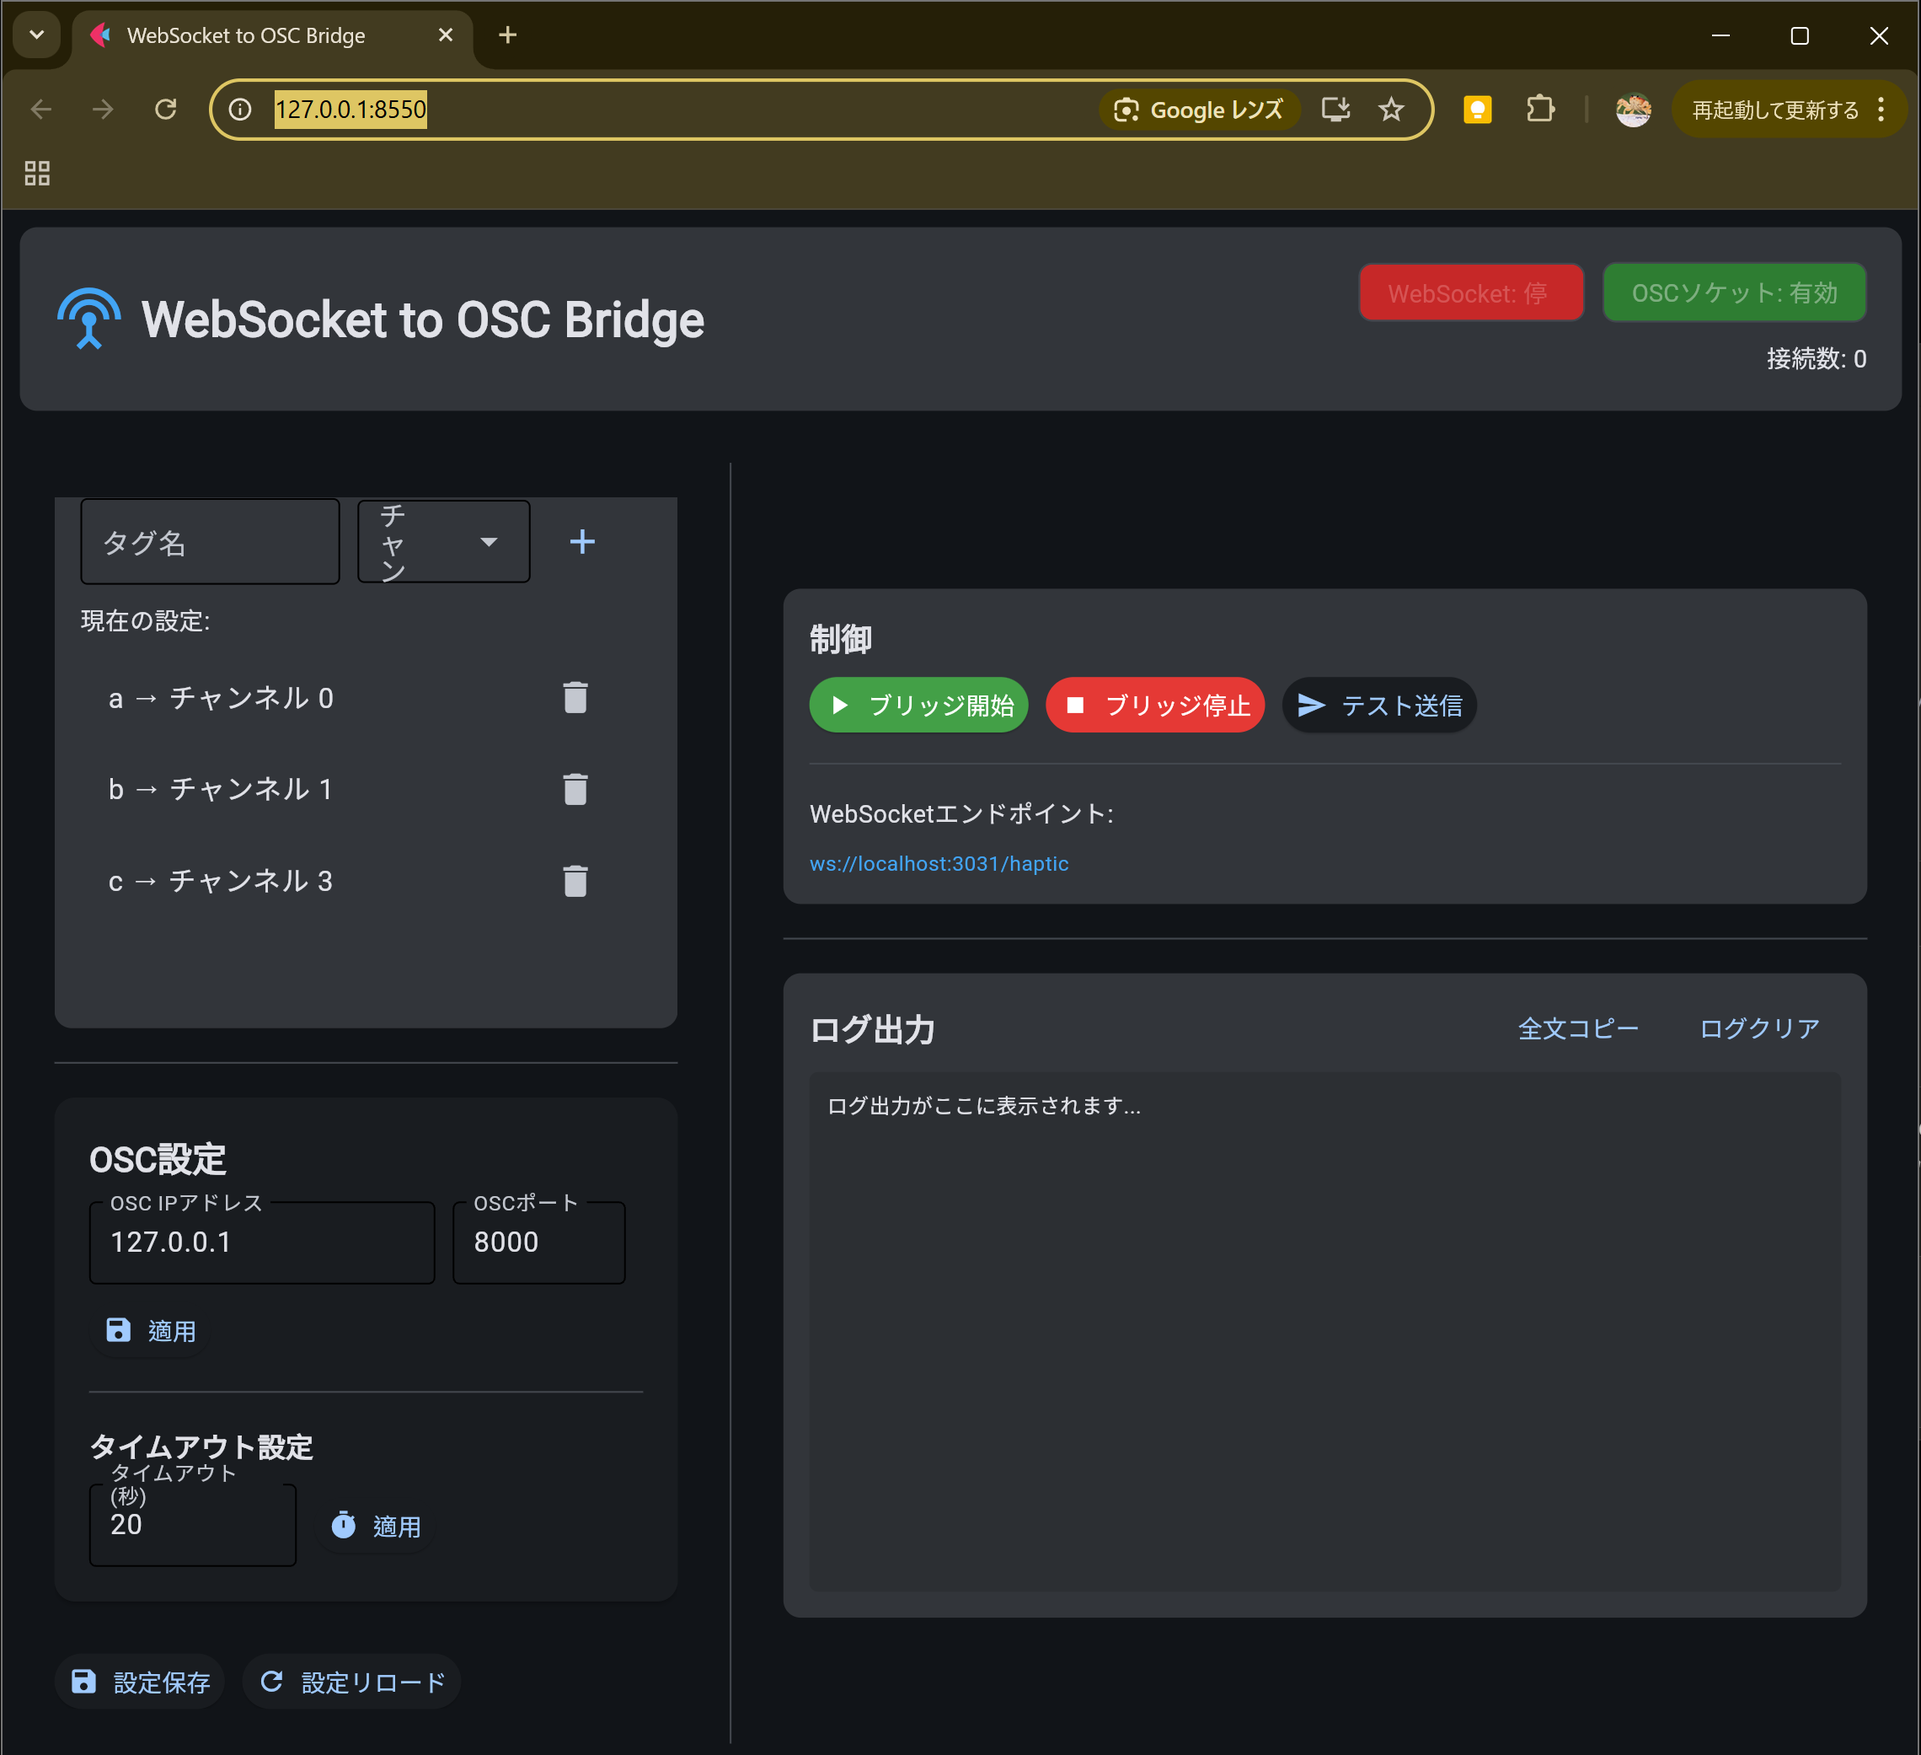
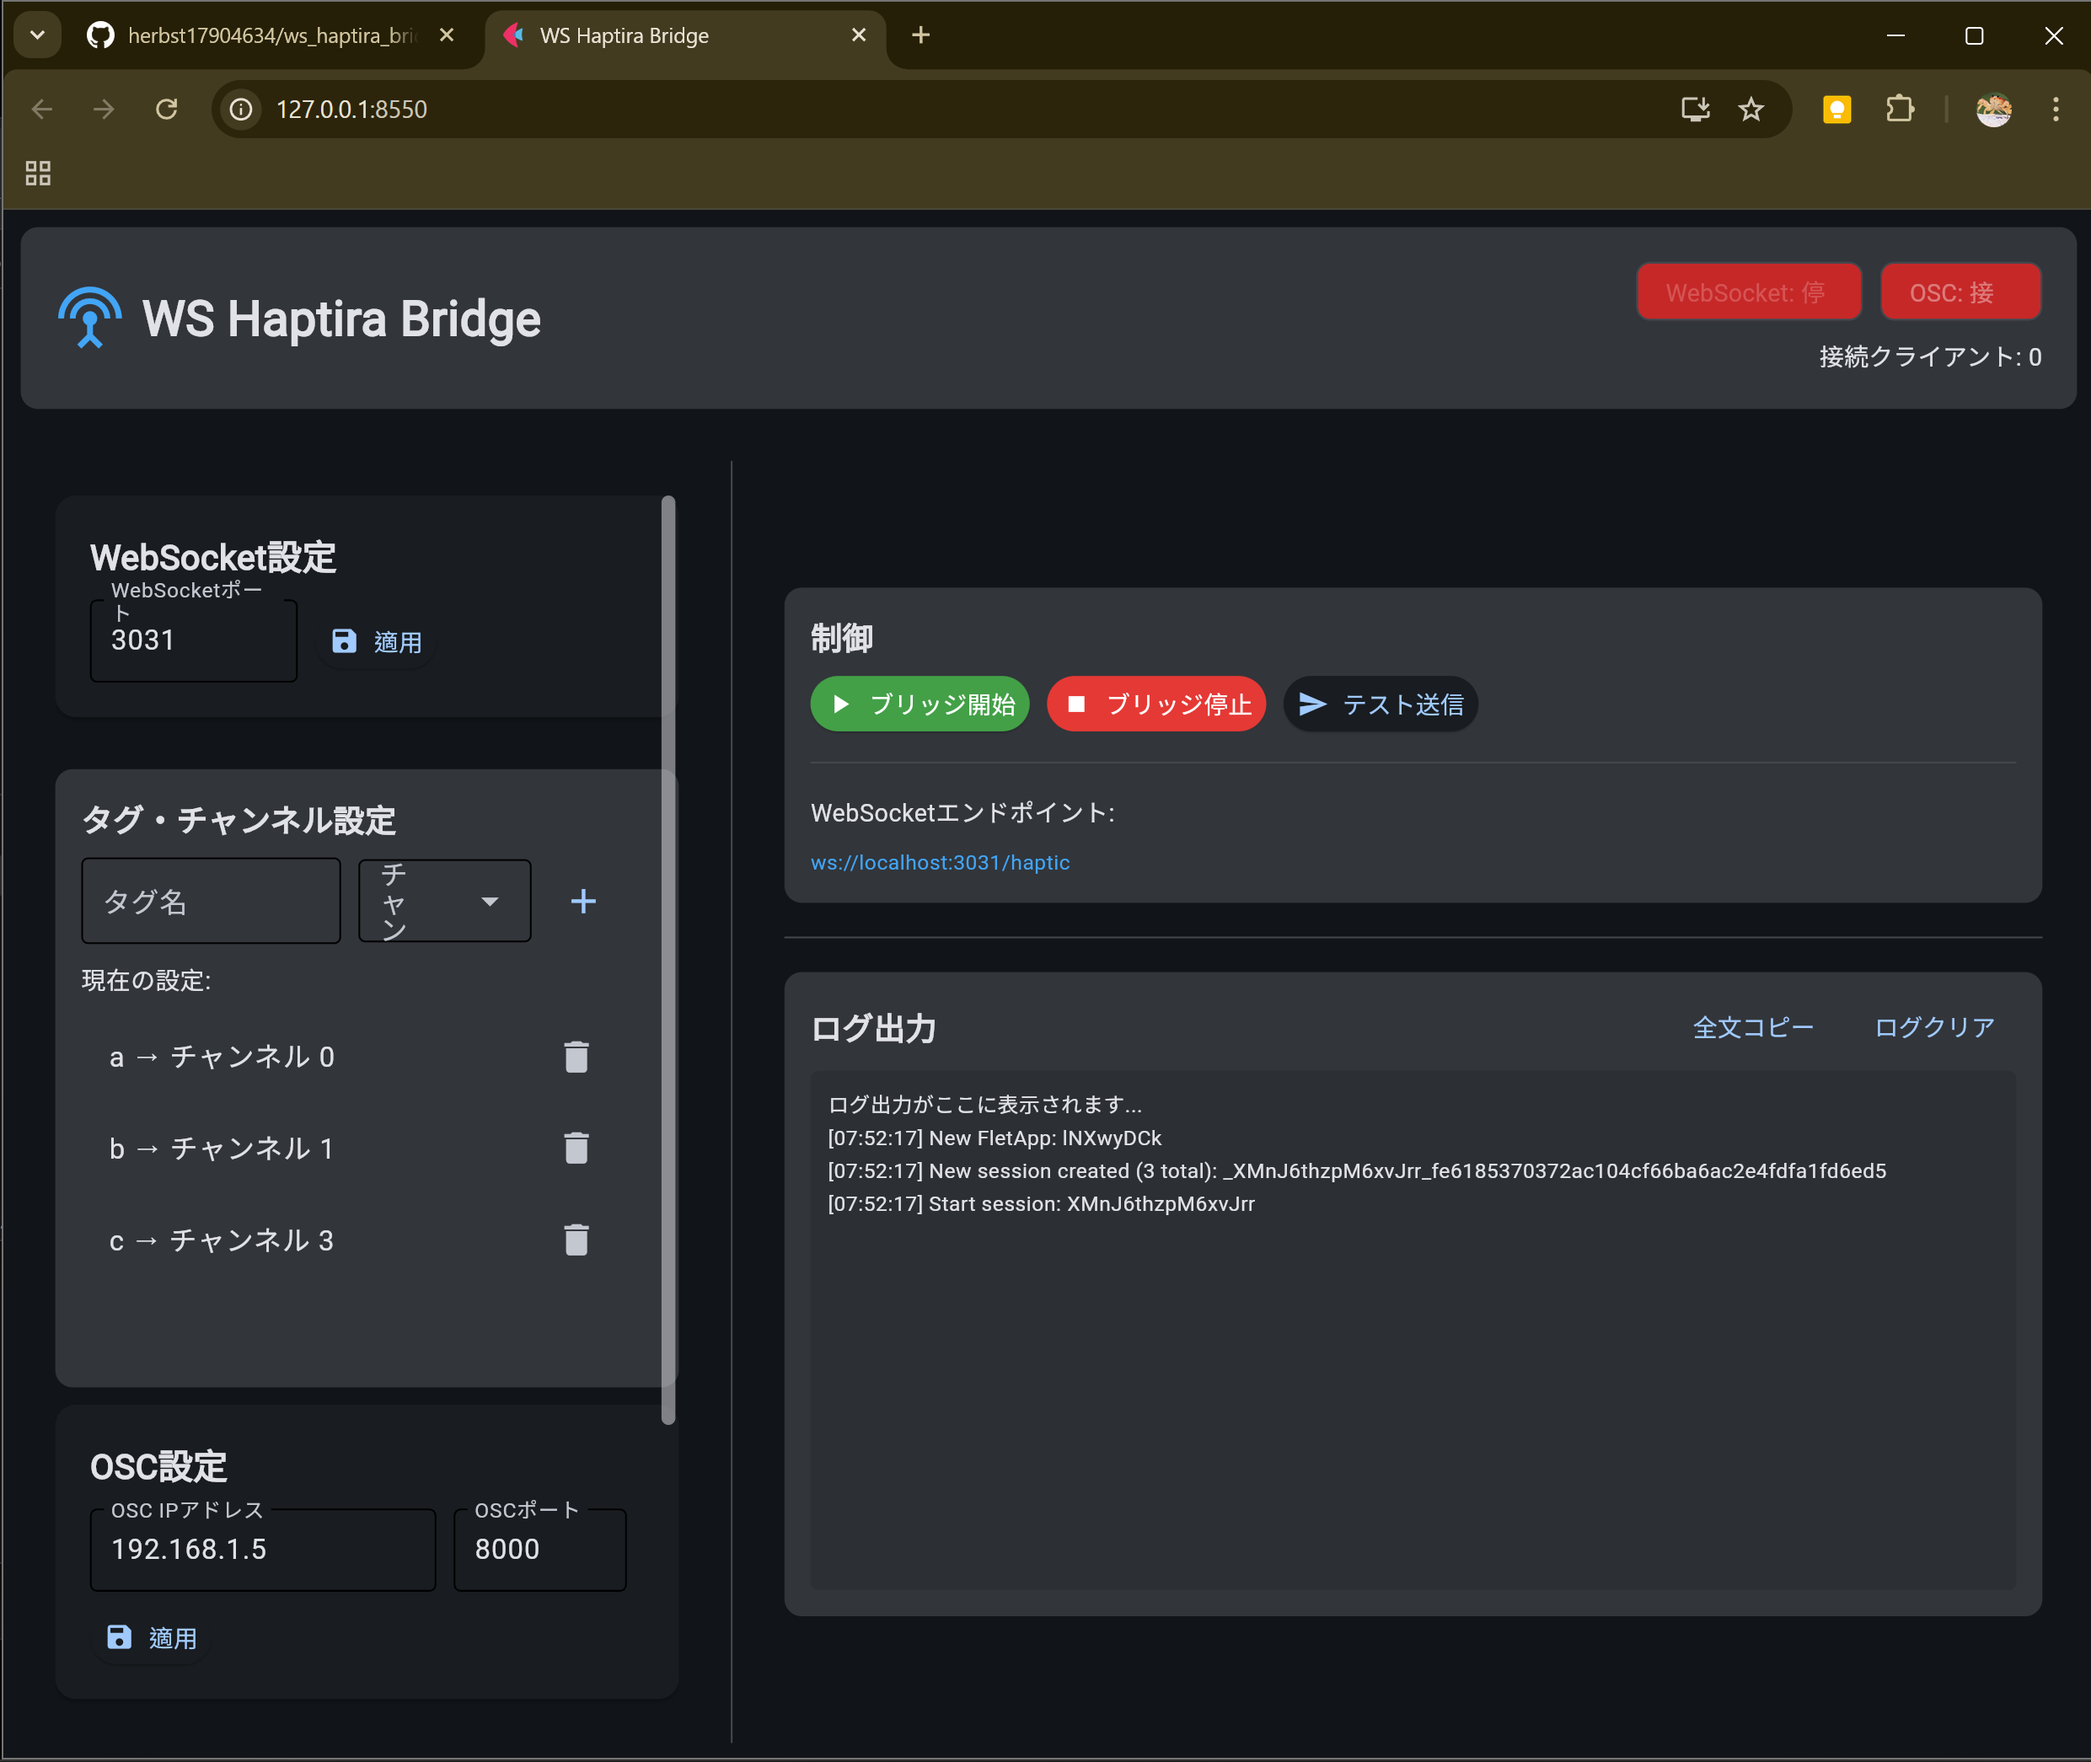
docs: add screenshots of GUI and console outputs for documentation

diff --git a/main.py b/main.py
@@ -66,7 +66,7 @@ class WebSocketOSCBridgeApp:
         header = ft.Container(
             content=ft.Row([
                 ft.Icon(ft.Icons.SETTINGS_INPUT_ANTENNA, size=40, color=ft.Colors.BLUE_400),
-                ft.Text("WebSocket to OSC Bridge", size=28, weight=ft.FontWeight.BOLD),
+                ft.Text("WS Haptira Bridge", size=28, weight=ft.FontWeight.BOLD),
                 ft.Container(expand=True),
                 self.create_status_indicators()
             ], alignment=ft.MainAxisAlignment.SPACE_BETWEEN),
